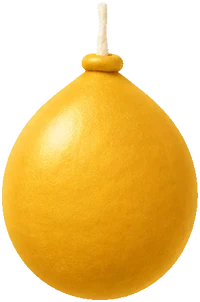
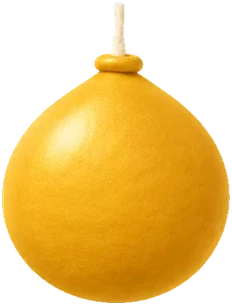
Balloons as round as the concept's, in the art itself

diff --git a/Tests/PlaytimeWordStageTests.swift b/Tests/PlaytimeWordStageTests.swift
@@ -192,7 +192,7 @@ struct PlaytimeWordStageTests {
         #expect(node(scene, "life.6.string") != nil && node(scene, "life.6") == nil, "gone, but for the string it hung by")
         // Each its own colour, in the picture's proportions.
         #expect(node(scene, "life.3")?["image"] as? String == "art/game-balloon-3.webp")
-        #expect(abs((kept?["w"] as? Double ?? 0) - (kept?["h"] as? Double ?? 0) * 200 / 305) < 0.01)
+        #expect(abs((kept?["w"] as? Double ?? 0) - (kept?["h"] as? Double ?? 0) * 232 / 305) < 0.01)
         #expect(node(scene, "lives")?["label"] as? String != nil)
     }
 
